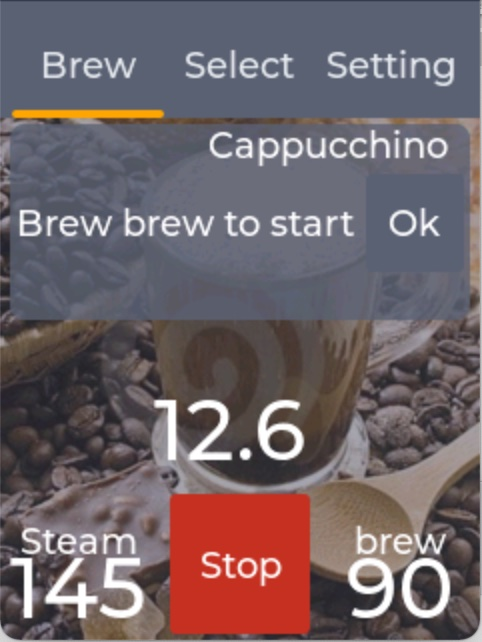
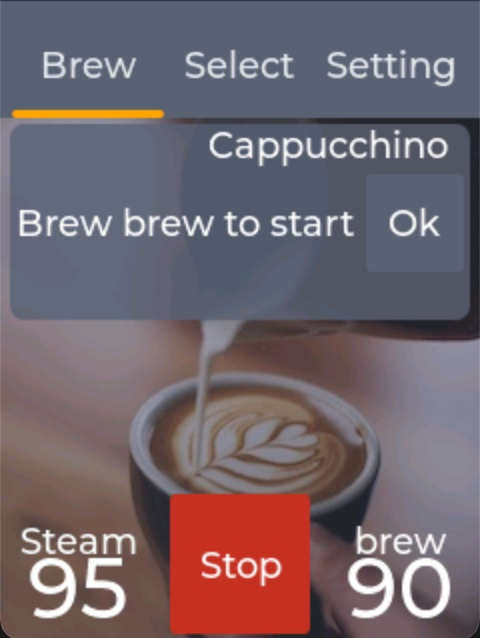
New Screens

diff --git a/src/ui/gaggia_ui.c b/src/ui/gaggia_ui.c
@@ -162,6 +162,7 @@ static lv_obj_t* gaggia_timer(lv_obj_t* parent) {
 
 #if defined (BUILD_NATIVE)
     lv_label_set_text(ui_elements[TIMER_LABEL].element, "12.6");
+    gaggia_ui_set_visibility(TIMER_BOX, false);
 #else
     gaggia_ui_set_visibility(TIMER_BOX, false);
 #endif
@@ -216,7 +217,7 @@ static lv_obj_t* spin_create(lv_obj_t* parent,
     return box;
 }
 #if defined (BUILD_NATIVE)
-const char* map[] = {"Cappuccino", "A. Coffee", ""};
+const char* map[] = {"Cappuccino", "A. Coffee", "\n", "Purge Cold", "Purge Hot", ""};
 #endif
 
 lv_obj_t* gaggia_brew_options(lv_obj_t* parent) {
@@ -302,7 +303,7 @@ static void gaggia_brew_screen(lv_obj_t* parent) {
     // Place for Steam Temperature
     gp = gaggia_gauge(parent, &ui_elements[STEAM_TEMP_OBJ].element, &ui_elements[STEAM_TEMP_LABEL].element, &label1);
 #if defined (BUILD_NATIVE)
-    gaggia_ui_set_text(STEAM_TEMP_LABEL, "145");
+    gaggia_ui_set_text(STEAM_TEMP_LABEL, "95");
 #endif
     lv_label_set_text(label1, "Steam");
     lv_obj_realign(label1);
